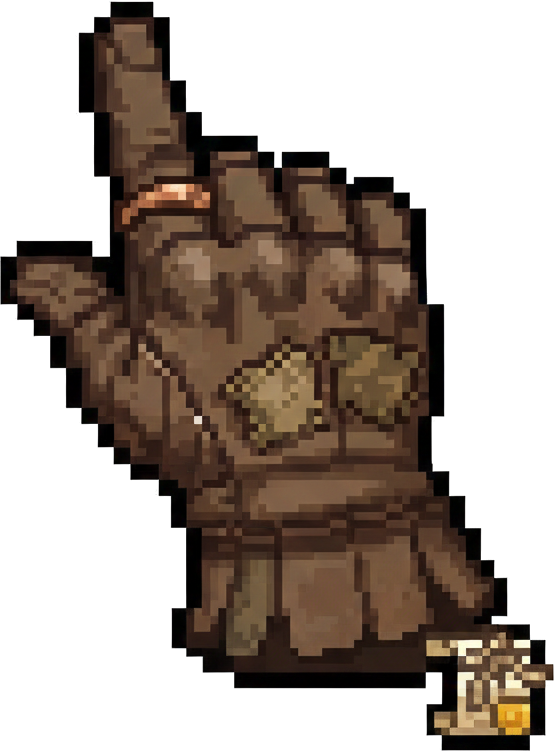
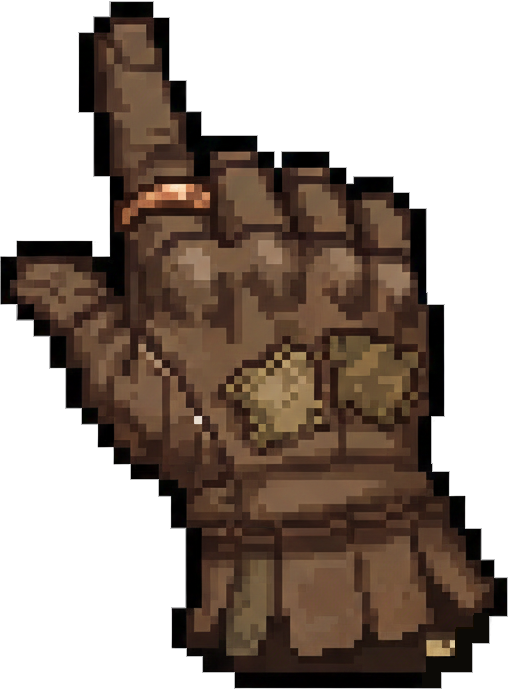
Added custom mouse cursor.

diff --git a/src/game.py b/src/game.py
@@ -120,6 +120,22 @@ class Game:
             self.font,
             self.images['button_sound_80']
         )
+        
+        # Load and setup custom cursor
+        try:
+            cursor_path = os.path.join(PICTURES_PATH, "cursor_1.png")
+            if os.path.exists(cursor_path):
+                raw_cursor = pygame.image.load(cursor_path).convert_alpha()
+                # Original size (554x751) is too big, scale down to roughly 30 width keeping aspect ratio
+                # 30 / 554 = 0.054. 751 * 0.054 = 40.5
+                self.cursor_img = pygame.transform.smoothscale(raw_cursor, (30, 41))
+                pygame.mouse.set_visible(False)
+            else:
+                self.cursor_img = None
+                print(f"Cursor file not found at {cursor_path}")
+        except Exception as e:
+            print(f"Failed to load custom cursor: {e}")
+            self.cursor_img = None
 
     def _initialize_goods(self) -> List[Good]:
         """Create and initialize the default list of goods for the market.
@@ -398,6 +414,11 @@ class Game:
                 
                 running = self.event_handler.handle_events(event, self.state, 
                                                         self.goods, self.depot, buttons)
+            
+            # Draw custom cursor on top of everything
+            if self.cursor_img and pygame.mouse.get_focused():
+                mouse_pos = pygame.mouse.get_pos()
+                self.screen.blit(self.cursor_img, mouse_pos)
                 
             pygame.display.update()
 

diff --git a/docs/TODO.md b/docs/TODO.md
@@ -34,6 +34,7 @@
 - [ ] Time progresses faster with higher frame rates, these two must be decoupled
 
 Finished Features
+- [x] Added custom mouse cursor
 - [x] Added night light effects for the church
 - [x] create special night light areas for big buildings as polygons and let them shine every night (city hall)
 - [x] create a church building as asset sprite
